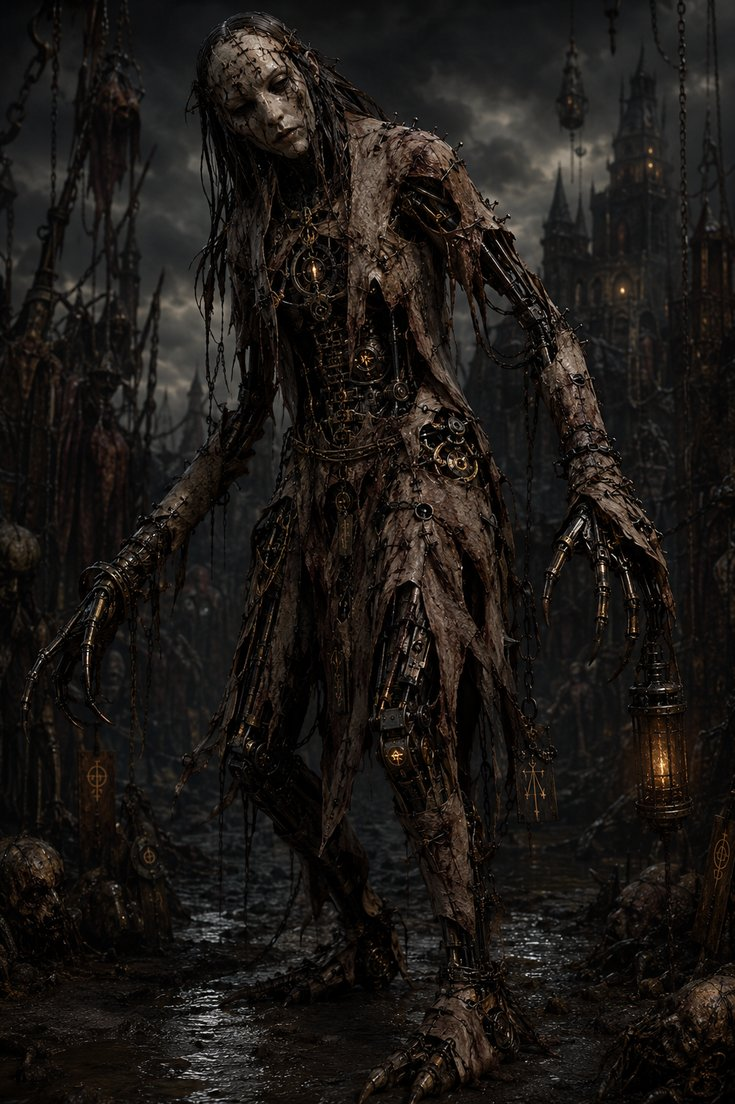
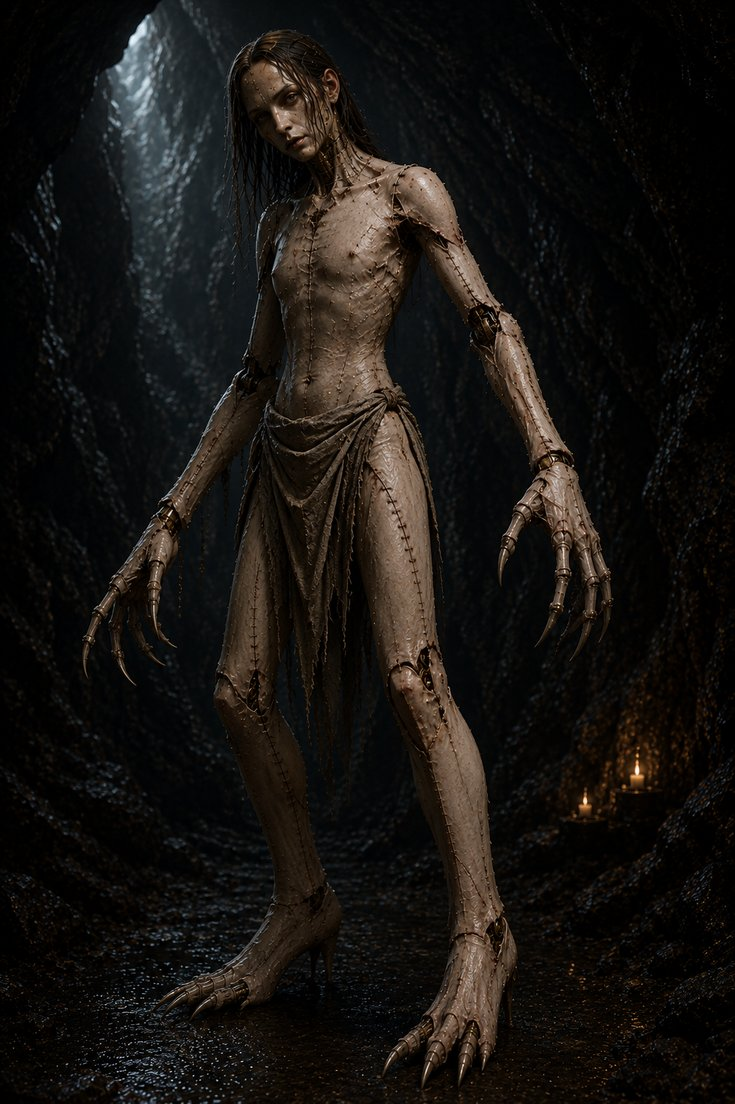
Replace skinwright art with a cave setting (#159)
Matches the note's own "found in caves" bullet better than the
previous ruined-city backdrop; updated the alt text and left the
caption as-is.

diff --git a/site/sw.js b/site/sw.js
@@ -2,7 +2,7 @@
    campaign/ is small (under 1 MB) so it is precached in full and works fully
    offline. vault/ is ~192 MB across 41k files, so it is cached lazily as pages
    are actually opened — anything you have read once stays available offline. */
-const VERSION = 'v98';
+const VERSION = 'v99';
 const SHELL = 'shell-' + VERSION;
 const NOTES = 'notes-' + VERSION;
 

diff --git a/campaign/world/bestiary/Skinwright.md b/campaign/world/bestiary/Skinwright.md
@@ -10,9 +10,9 @@ whatever last serviced one did not mean for what it does now. Somewhere in
 the working it went wrong, and what climbs out of a cave mouth or a
 tree-line wants what it was never given.
 
-![A skinwright standing in dark, wet ruins: a stolen face and stitched skin
-stretched over a riveted metal frame, joints and gearwork showing through
-the tears](Skinwright.jpg)
+![A skinwright standing in a wet cave mouth by candlelight: a stolen face
+and stitched skin drawn tight over a metal frame, the joints at wrist,
+elbow and knee worn through to bare gearwork](Skinwright.jpg)
 *Its third skin, or its thirtieth. Nobody has ever gotten close enough to
 count the stitches.*
 
